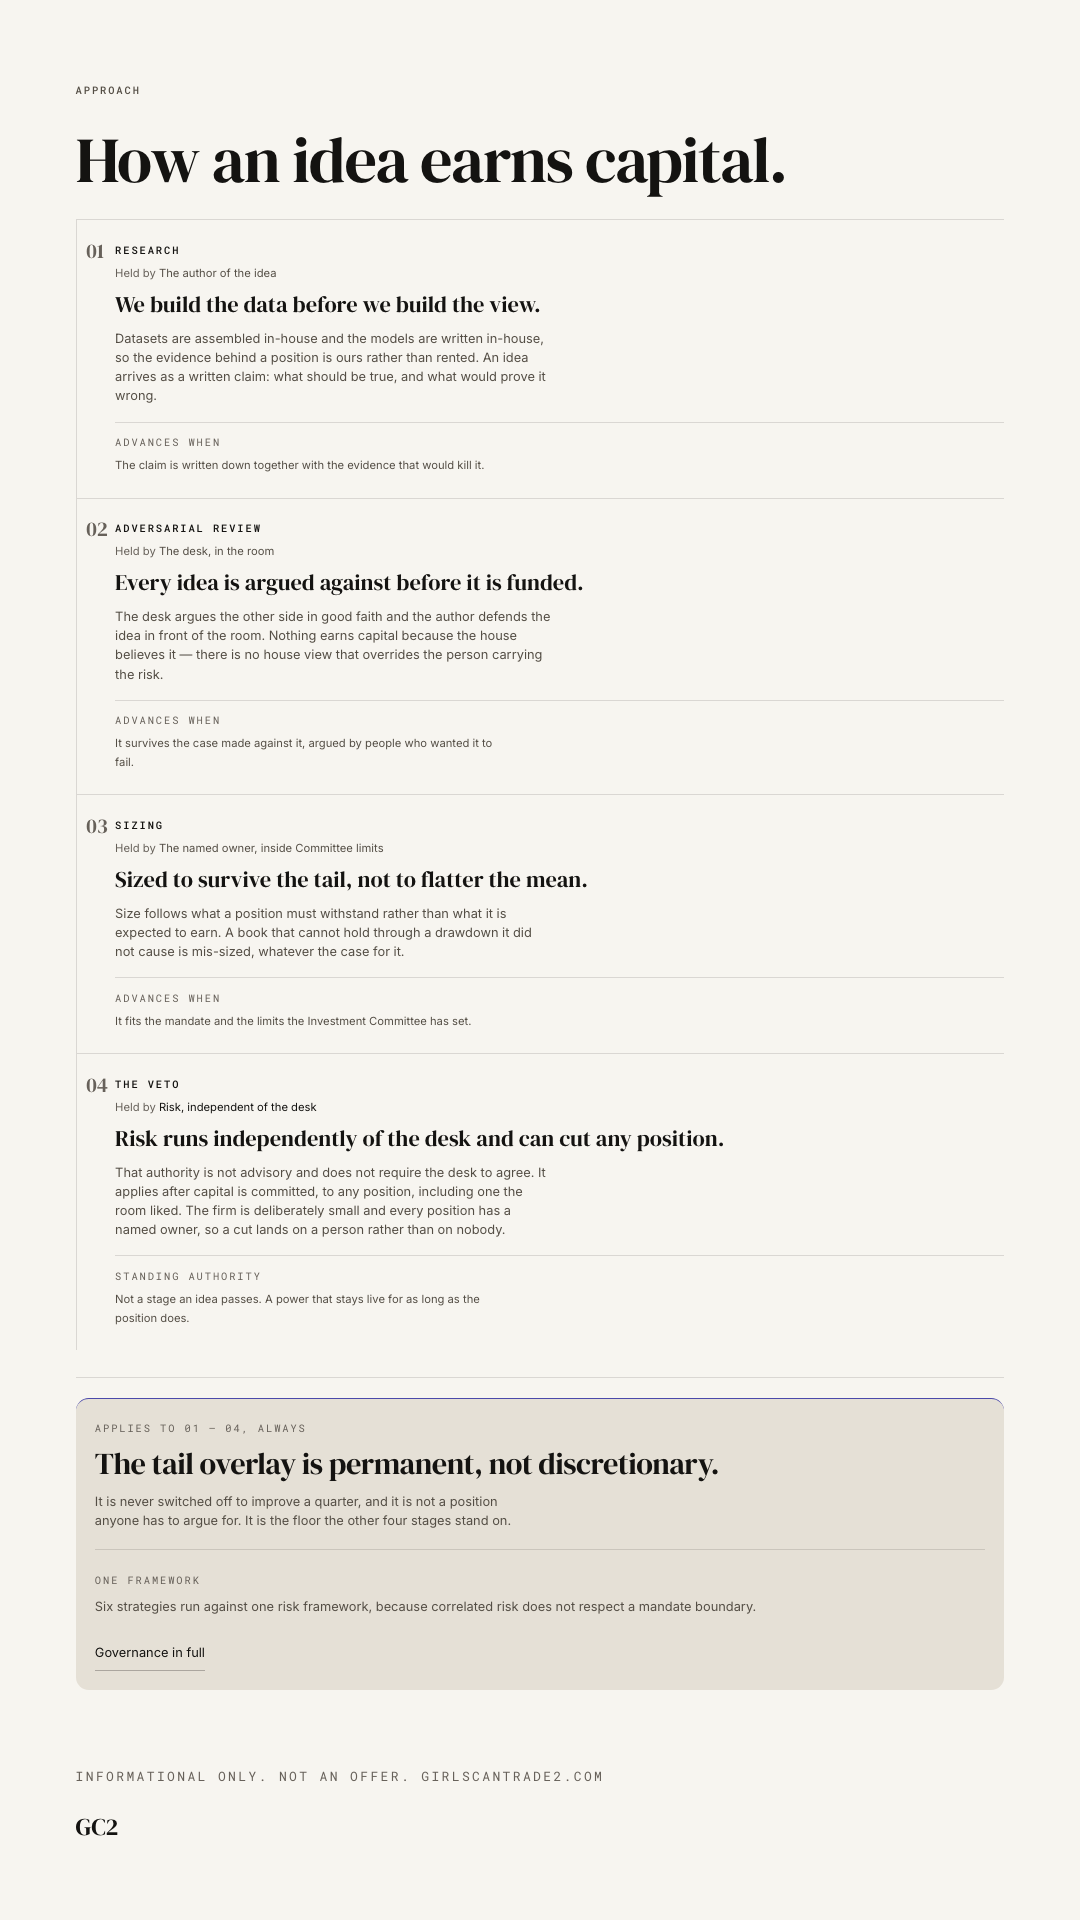
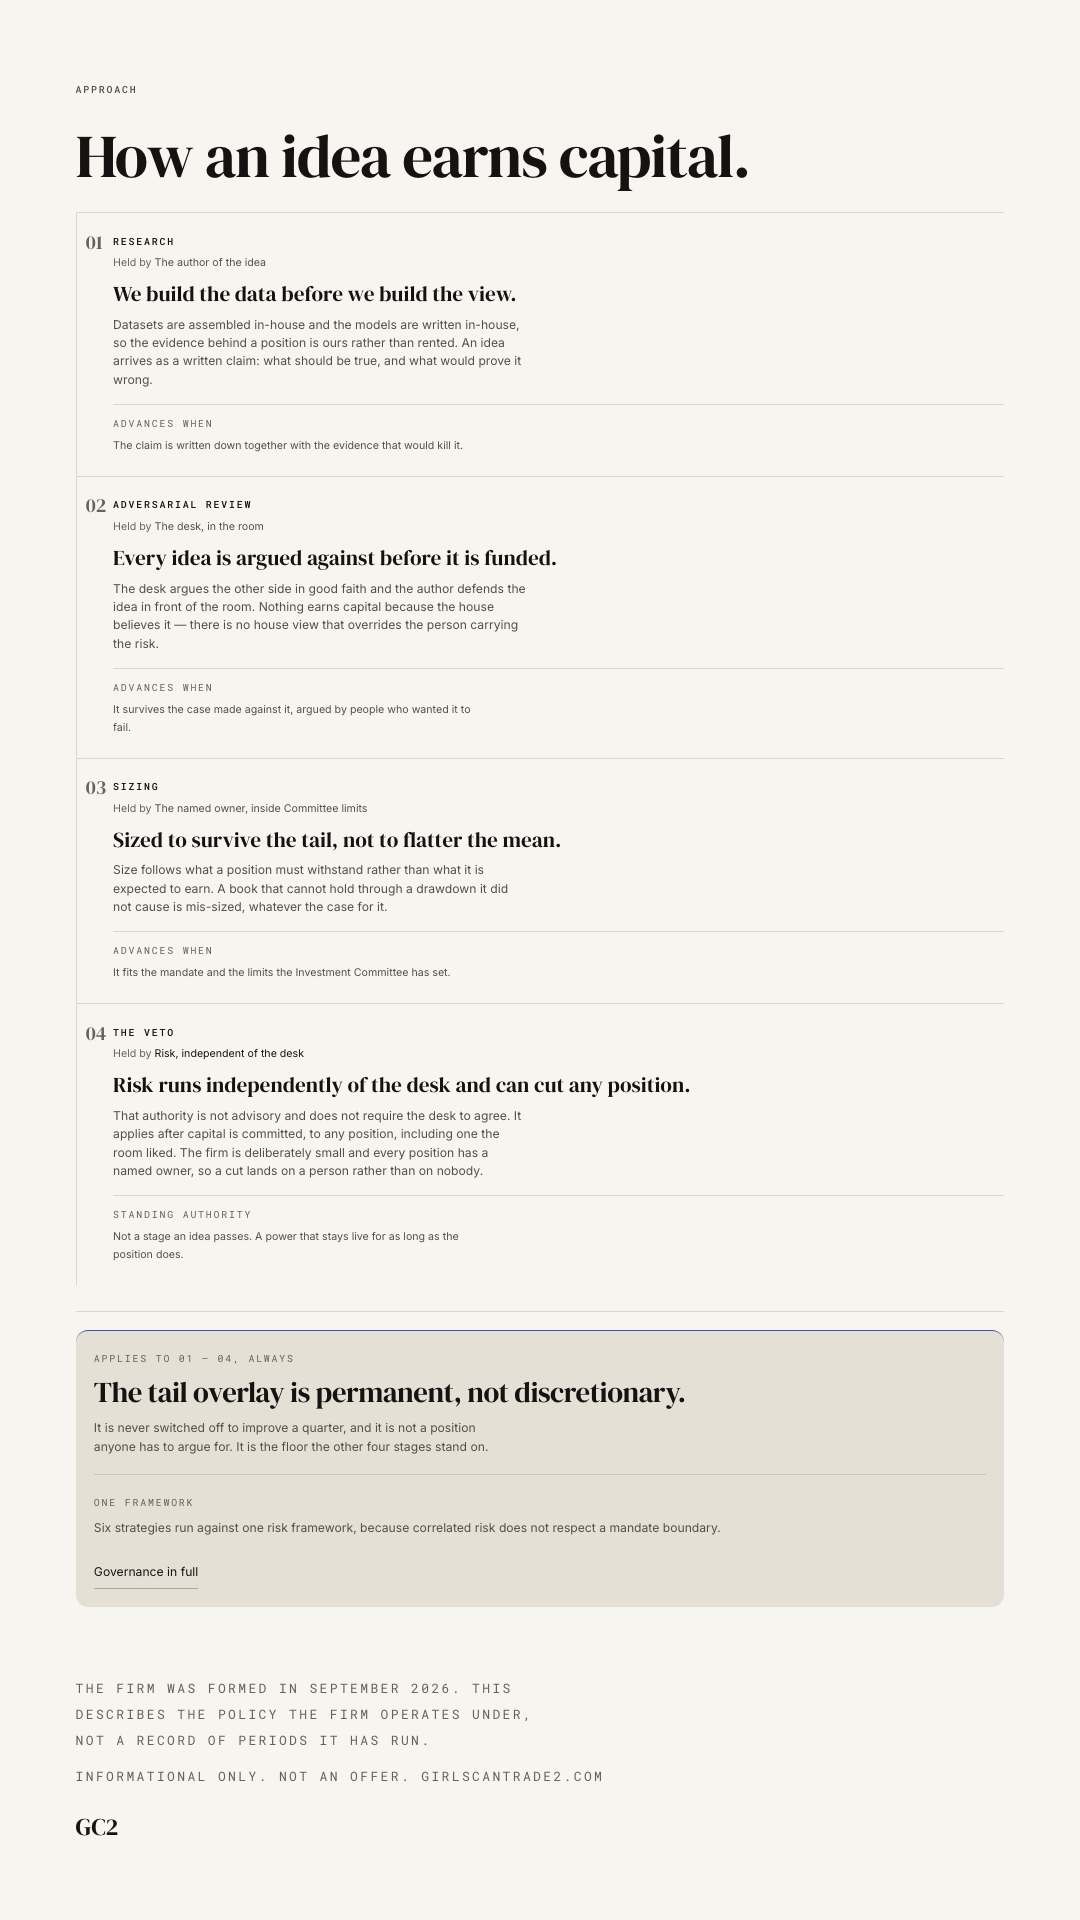
counsel r2: the page says what the card says — title, note, and one shape
Counsel's second read holds the SITE on three of these, and every one of them
comes from the same mistake in round 2: I gave the title and the "not fund
performance" line to the share cards only, on the reasoning that a card travels
alone while the page has a section around it. Counsel does not accept the
distinction, and is right — a rising hairline on a fund's own home page is read
the same way as one on a card, and the page is where most people see it first.

1. YieldCurve. The title and the note are unconditional now. The `card` prop is
   down to one job: choosing the title's type tier, .t-h3 on a card and
   .t-caption on the page, where it costs about 40px and sits in the same voice
   as the tenor labels and the source line.

   And ONE canonical shape everywhere. The page filled its box with
   preserveAspectRatio="none" while the cards rendered the viewBox's ratio, so
   the same day's curve was measurably steeper on the site than on a card
   someone had just shared — that IS the exaggeration, and naming which surface
   stretches does not fix it. The box now carries the viewBox's ratio via CSS
   aspect-ratio and the drawing is fitted into it with "xMidYMid meet", so
   distortion is impossible by construction rather than by convention: a
   consumer that forces a disagreeing height gets visible letterboxing instead
   of a quietly steeper curve. Measured at 320, 393 WebKit, 1280, 1920 and 3440:
[…]

Changed region(s): [[0.0611, 0.125, 0.9472, 0.9062], [0.0611, 0.0625, 0.7333, 0.125]]

diff --git a/src/components/viz/YieldCurve.tsx b/src/components/viz/YieldCurve.tsx
@@ -18,23 +18,18 @@ import {
  * level; no fund data of any kind, per §1 and the 506(b) list.
  *
  * ONE 1px INK HAIRLINE ON PAPER. The rule never changed — one hairline, no
- * fill, no gradient — only which end of the scale it sits at: it is now
- * `--color-ink` on `--color-ground` (LIGHT-PASS.md). Nothing else about the drawing changes: no fill, no
- * gradient, no second colour, and the accents stay out of it — a data
- * component is the one place DESIGN.md's "one accent per section" ration is
- * spent on nothing at all.
+ * fill, no gradient, no second colour — only which end of the scale it sits at:
+ * `--color-ink` on `--color-ground` (LIGHT-PASS.md). The accents stay out of it;
+ * a data component is the one place DESIGN.md's "one accent per section" ration
+ * is spent on nothing at all.
  *
- * preserveAspectRatio="none", DELIBERATELY, with vector-effect="non-scaling-
- * stroke" on the path. The alternative, "xMidYMid meet", scales the drawing
- * uniformly: at 320 the hairline thins below a pixel and at 3440 it fattens to
- * three, and the letterboxing leaves dead bands the composition has no use for.
- * With "none" the plot fills its box at every width and the stroke stays
- * exactly 1px, which is what APPENDIX-A means by a hairline. The distortion
- * that buys is vertical exaggeration of a curve with no printed y scale, which
- * claims nothing either way. Tenor labels are HTML, not SVG text, so they hold
- * .t-caption at its own size instead of scaling with the box — that is the
- * other half of the same decision, and it is why the 13px floor survives at
- * 320 and the labels do not become billboards at 3440. Checked at both.
+ * The stroke keeps `vector-effect="non-scaling-stroke"`, which is what holds it
+ * at exactly 1px from a 320 phone to a 3440 monitor — a hairline that thins
+ * below a pixel at one end and fattens to three at the other is not the
+ * hairline APPENDIX-A means. Tenor labels are HTML, not SVG text, for the same
+ * reason: they hold .t-caption at its own size rather than scaling with the
+ * box, which is why the 13px floor survives at 320 and the labels do not become
+ * billboards at 3440. Checked at both.
  */
 
 /* Four labels, not thirteen. On a log axis 1Y and 2Y sit twelve percent apart,
@@ -42,19 +37,31 @@ import {
    four are spread across the axis at every width the site supports. */
 const LABELLED = new Set(["1M", "1Y", "10Y", "30Y"]);
 
+/* ONE canonical shape, everywhere.
+ *
+ * The page used to fill its box with preserveAspectRatio="none" while the cards
+ * rendered the viewBox's own ratio, so the same day's curve was steeper on the
+ * site than on a card someone had just shared. That IS the exaggeration counsel
+ * objected to; naming which surface stretches does not fix it.
+ *
+ * Now the box always has the viewBox's ratio (CSS `aspect-ratio`) and the SVG
+ * is fitted into it uniformly ("xMidYMid meet"). Distortion is impossible by
+ * construction rather than by convention: if a consumer forces a height that
+ * disagrees, the drawing letterboxes — visibly, honestly — instead of quietly
+ * getting steeper. A slot that needs a different shape sets `--yc-aspect`,
+ * which changes the BOX and the drawing together. */
 const VIEW = { w: 1000, h: 260 };
 
 export type YieldCurveProps = {
   className?: string;
   /**
-   * Share-card mode. securities-counsel's round-2 read (docs/v4/COUNSEL.md,
-   * finding 1, BLOCKING): on the page the curve sits inside a section that says
-   * what it is, but a card travels alone — an unlabelled rising hairline beside
-   * a fund's wordmark can be read as the fund's own record. So a card NAMES the
-   * plot in type and says what it is not, and it drops the vertical
-   * exaggeration: the page fills its box with preserveAspectRatio="none", a
-   * card renders the viewBox's own 1000:260 so the line on the card is never
-   * steeper than the line in the data.
+   * Card presentation. Counsel's SECOND read closed the loophole the first one
+   * left: round 2 gave the title and the "not fund performance" line to the
+   * cards only, on the reasoning that a card travels alone while the page has a
+   * section around it. Counsel does not accept the distinction — a rising
+   * hairline on a fund's own home page is read the same way — so BOTH strings
+   * are now unconditional and this prop only chooses the title's type tier:
+   * .t-h3 on a card, .t-caption on the page, where it costs about 40px.
    */
   card?: boolean;
 };
@@ -75,12 +82,16 @@ export default async function YieldCurve({ className = "", card = false }: Yield
       data-asof={curve.date}
     >
       <style>{css}</style>
-      {card ? <h3 className="t-h3 yc-title">U.S. Treasury par yield curve</h3> : null}
+      {/* Always. A plot that is not named in type is a plot the reader has to
+          guess at, and the guess a fund's own page invites is the wrong one. */}
+      <p className={card ? "t-h3 yc-title" : "t-caption yc-title"}>
+        U.S. Treasury par yield curve
+      </p>
       <div className="yc-plot">
         <svg
           className="yc-svg"
           viewBox={`0 0 ${VIEW.w} ${VIEW.h}`}
-          preserveAspectRatio={card ? "xMidYMid meet" : "none"}
+          preserveAspectRatio="xMidYMid meet"
           role="img"
           aria-label={`United States Treasury par yield curve as of ${date}, from one month to thirty years.`}
         >
@@ -125,9 +136,7 @@ export default async function YieldCurve({ className = "", card = false }: Yield
       <figcaption className="t-caption yc-source">
         {TREASURY_ATTRIBUTION} · as of {date}
       </figcaption>
-      {card ? (
-        <p className="t-caption yc-note">Public market data. Not fund performance.</p>
-      ) : null}
+      <p className="t-caption yc-note">Public market data. Not fund performance.</p>
     </figure>
   );
 }
@@ -161,22 +170,25 @@ const css = `
 .yc-svg {
   display: block;
   width: 100%;
-  /* A consumer sets its slot's height by assigning --yc-h on the figure rather
-     than reaching inside for .yc-svg — the hero's short-desktop slot height is
-     the case this exists for. */
-  height: var(--yc-h, clamp(132px, 15vw, 240px));
+  /* The box carries the viewBox's ratio, so "meet" fits it exactly and nothing
+     is ever stretched or letterboxed. A slot that needs a different shape sets
+     --yc-aspect on the figure; it moves the box and the drawing together, which
+     a height override cannot do. */
+  aspect-ratio: var(--yc-aspect, 1000 / 260);
+  height: auto;
   overflow: visible;
 }
 .yc-axis { position: relative; height: 1.9em; margin-top: 12px; }
 .yc-tick { position: absolute; top: 0; white-space: nowrap; }
 .yc-source { display: block; margin-top: 6px; }
 
-/* Card mode. The heading is .t-h3 — the display face at the caption-to-h3 size
-   counsel asked for — and the plot takes its own aspect from the viewBox rather
-   than a forced height, which is what removes the stretch. */
-.yc-title { margin: 0 0 22px; }
+/* The title and the note ship on every surface. On a card the title is .t-h3,
+   the display face at the size counsel asked for; on the page it is .t-caption,
+   which puts it in the same voice as the tenor labels and the source line and
+   costs about 40px. */
+.yc-title { display: block; margin: 0 0 14px; }
+.yc[data-card="true"] .yc-title { margin-bottom: 22px; }
 .yc-note { display: block; margin: 2px 0 0; color: var(--color-ink-3); hyphens: none; }
-.yc[data-card="true"] .yc-svg { height: auto; }
 
 /* Label collision, and where the 470px comes from.
  *

diff --git a/src/components/viz/og.tsx b/src/components/viz/og.tsx
@@ -76,7 +76,19 @@ export type OgCard = {
    * fetch the page uses, so a share of the home page is dated. `null` — an
    * unreachable feed — falls back to the plain card rather than to a fake line.
    */
-  curve?: { d: string; width: number; height: number; source: string } | null;
+  curve?: {
+    d: string; width: number; height: number;
+    /** "U.S. Treasury par yield curve" — the plot named in type, above the line. */
+    title: string;
+    /** "U.S. Treasury · as of {date}". */
+    source: string;
+    /** "Public market data. Not fund performance." */
+    note: string;
+  } | null;
+  /** The frame line every share card carries. Counsel's second read puts it on
+   *  the home Open Graph card too: it is the card most likely to be seen by
+   *  someone who has never seen the site. */
+  frame?: string | null;
 };
 
 /** Alt text for the card, so the `og:image:alt` a screen reader hears is the
@@ -85,7 +97,7 @@ export function ogAlt({ title, description }: OgCard): string {
   return `${title} — ${opening(description)}`;
 }
 
-export function ogImage({ title, description, curve = null }: OgCard) {
+export function ogImage({ title, description, curve = null, frame = null }: OgCard) {
   return Promise.all([displayFont, uiFont]).then(
     ([display, ui]) =>
       new ImageResponse(
@@ -138,15 +150,22 @@ export function ogImage({ title, description, curve = null }: OgCard) {
                 justifyContent: "space-between",
               }}
             >
-              <div
-                style={{
-                  fontFamily: "DM Serif Display",
-                  fontSize: 34,
-                  letterSpacing: "-0.01em",
-                  color: INK,
-                }}
-              >
-                {site.mark}
+              <div style={{ display: "flex", flexDirection: "column" }}>
+                {frame ? (
+                  <div style={{ marginBottom: 12, fontSize: 16, color: INK_3, letterSpacing: "0.09em" }}>
+                    {frame}
+                  </div>
+                ) : null}
+                <div
+                  style={{
+                    fontFamily: "DM Serif Display",
+                    fontSize: 34,
+                    letterSpacing: "-0.01em",
+                    color: INK,
+                  }}
+                >
+                  {site.mark}
+                </div>
               </div>
               {curve ? (
                 <div
@@ -156,6 +175,9 @@ export function ogImage({ title, description, curve = null }: OgCard) {
                     alignItems: "flex-start",
                   }}
                 >
+                  <div style={{ marginBottom: 14, fontSize: 19, color: INK }}>
+                    {curve.title}
+                  </div>
                   <svg
                     width={curve.width}
                     height={curve.height}
@@ -171,6 +193,9 @@ export function ogImage({ title, description, curve = null }: OgCard) {
                   </svg>
                   <div style={{ marginTop: 14, fontSize: 17, color: INK_3, letterSpacing: "0.09em" }}>
                     {curve.source}
+                  </div>
+                  <div style={{ marginTop: 4, fontSize: 17, color: INK_3, letterSpacing: "0.09em" }}>
+                    {curve.note}
                   </div>
                 </div>
               ) : null}

diff --git a/scripts/share-kit.ts b/scripts/share-kit.ts
@@ -72,6 +72,14 @@ type Card = {
   curve?: "body" | "foot";
   /** Extra frame rules for this card only. Layout, never type or colour. */
   frame?: string;
+  /**
+   * Counsel high, second read: a card describing how the firm works, travelling
+   * without the page around it, reads as a description of how the firm HAS
+   * worked. The four-stages and strategies cards get the founding fact in the
+   * caption tier above the frame line. The month is read from
+   * site.foundedLabel, never typed — one founding fact, one home.
+   */
+  formed?: boolean;
 };
 
 const CARDS: Card[] = [
@@ -98,6 +106,7 @@ const CARDS: Card[] = [
     name: "four-stages",
     width: 1080, height: 1920,           // story — the tall poster
     route: "/",
+    formed: true,
     selectors: [
       { sel: "#approach p.t-mono", first: true },   // the eyebrow, not the five stage labels
       "#approach h2",
@@ -139,6 +148,7 @@ const CARDS: Card[] = [
     name: "strategies",
     width: 1600, height: 900,            // X
     route: "/",
+    formed: true,
     /* .stx-name, not .stx-head: sec-strategies took the 01-06 numerals off the
        rows in round 1 and the wrapper went with them. Six names, no numerals —
        which is what STATE.md §0.2 item 4 asked for, arriving here for free. */
@@ -231,6 +241,8 @@ const FRAME = `
      line sits above the wordmark so the mark still closes the composition. */
   .sk-legal { display: block; margin: 0 0 16px; color: var(--color-ink-3);
               hyphens: none; }
+  .sk-formed { display: block; margin: 0 0 10px; max-width: 62ch;
+               color: var(--color-ink-3); hyphens: none; }
   /* The wordmark is the frame's own element, not lifted content, so the frame
      is entitled to state its colour. Wordmark.tsx still carries the dark
      build's white utility while sec-chrome's light pass is in flight, which
@@ -430,6 +442,11 @@ async function main() {
         (curve ? `<div class="sk-curve">${curve}</div>` : "") +
         /* site.domain, not a literal: the domain has one home and it is
            src/config/site.ts. */
+        (card.formed
+          ? `<p class="t-caption sk-formed">The firm was formed in ` +
+            `${site.foundedLabel}. This describes the policy the firm operates ` +
+            `under, not a record of periods it has run.</p>`
+          : "") +
         `<p class="t-caption sk-legal">Informational only. Not an offer. ${site.domain}</p>` +
         `<div class="sk-mark">${c.wordmark}</div></div></div>` +
         `</body></html>`,

diff --git a/src/components/viz/ECBGrid.tsx b/src/components/viz/ECBGrid.tsx
@@ -65,6 +65,10 @@ export default async function ECBGrid({ className = "" }: { className?: string }
       </ul>
       <figcaption className="t-caption eg-source">
         {ECB_ATTRIBUTION} · reference rates · as of {date}
+        {/* Counsel's second read: the same sentence the curve carries, on every
+            surface. A grid of rates on a fund's page is read as the fund's
+            rates unless it says otherwise, and it costs one line to say so. */}
+        <span className="eg-note">Public market data. Not fund performance.</span>
       </figcaption>
     </figure>
   );
@@ -96,6 +100,7 @@ const css = `
 .eg-chg { color: var(--color-ink-2); font-variant-numeric: tabular-nums;
           text-align: right; min-width: 7ch; }
 .eg-source { display: block; margin-top: 12px; hyphens: none; }
+.eg-note { display: block; color: var(--color-ink-3); }
 
 /* Under ~360px of container width the three columns and .t-caption's .182em
    tracking stop fitting on one line. The change moves under the rate rather

diff --git a/src/app/opengraph-image.tsx b/src/app/opengraph-image.tsx
@@ -39,12 +39,22 @@ export const contentType = OG_CONTENT_TYPE;
 
 export default async function Image() {
   const data = await fetchYieldCurve();
+  /* The same three strings the share cards carry (counsel's second read): the
+     plot named in type above the line, what it is not underneath, and the frame
+     line. This is the card most likely to be seen by someone who has never seen
+     the site, so it is the last place to leave a rising hairline unlabelled. */
   const curve = data
     ? {
         ...PLOT,
         d: geometry(data.points, PLOT.width, PLOT.height).d,
+        title: "U.S. Treasury par yield curve",
         source: `${TREASURY_ATTRIBUTION} · as of ${asOf(data.date)}`,
+        note: "Public market data. Not fund performance.",
       }
     : null;
-  return ogImage({ ...card, curve });
+  return ogImage({
+    ...card,
+    curve,
+    frame: `Informational only. Not an offer. ${site.domain}`,
+  });
 }
